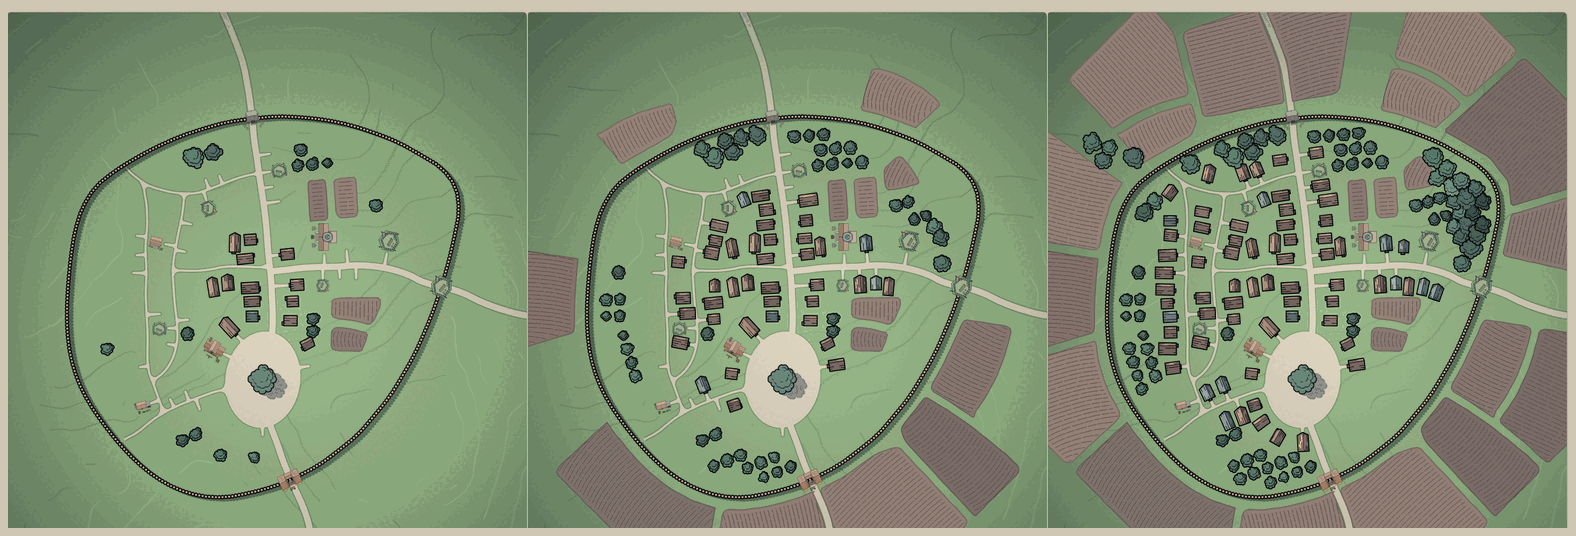
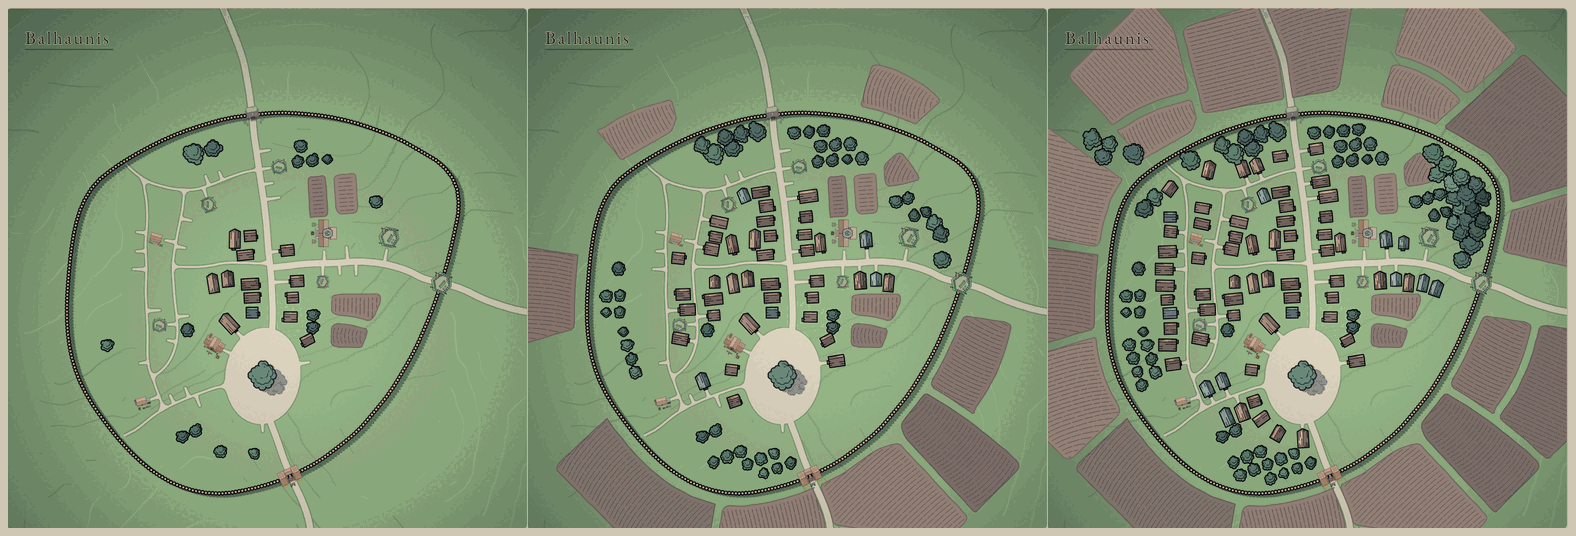
feat(village): strip the demo to the map and name it
The page carried a masthead and a long footer explaining how the map
works. None of it was doing anything: someone who opens a map demo wants
the map, and the explanation belongs in the repository, where it now
lives in `demo/README.md` and in the modules' own headers. Both are gone,
along with the orphaned `.aside` and `footer code` rules. The masthead,
crumb, footer and stages styles stay — the planner page still uses them.

The one thing the page gained is a name. It is a `<text>` node inside the
SVG rather than an HTML overlay, so it scales with the map, sits over the
top-left field without covering anything, and is deaf to the pointer, so
it cannot steal a hover from whatever lies under it. The rule beneath it
is drawn to the text's measured width, so it ends with the name at any
length.

Set in EB Garamond, which the system already ships and already declares —
and which the title needed, because the previous Georgia stack resolves to
nothing on Linux and was falling back to a default serif. The halo is 6
against a 210 size: Garamond's strokes are fine enough that the 18 I
started with read as an outline around hollow letters rather than as
separation from the field.

The export has to carry the face too. An SVG rendered through an `<img>`
is its own document: the page's `@font-face` does not reach into it and a
relative font URL inside it resolves against nothing, so the exported map
was set in whatever serif the renderer defaulted to. `toPng` now embeds
[…]

diff --git a/demo/index.html b/demo/index.html
@@ -10,15 +10,13 @@
 </head>
 <body>
 
-<header class="masthead">
-  <div>
-    <h1>Balhaunis</h1>
-    <p>The village map from the <a href="https://github.com/DimitroffVodka/crows_playtest">MCDM Crows</a> Foundry VTT system. Found an institution and it appears on the plot held for it; raise Prosperity and the homes, fields and woodland fill in behind it. This page runs the system's own map code — no server, no build step, no Foundry.</p>
-  </div>
-</header>
-
 <main>
   <section class="panel" aria-label="Controls">
+
+    <div class="field">
+      <label for="village-name">Village</label>
+      <input id="village-name" type="text" autocomplete="off" spellcheck="false" maxlength="28" placeholder="Balhaunis">
+    </div>
 
     <div class="field">
       <label for="prosperity">Prosperity <span class="readout" id="prosperity-value"></span></label>
@@ -45,6 +43,11 @@
       <button id="download" type="button">Download PNG</button>
       <button id="copy-link" type="button">Copy link</button>
     </div>
+
+    <p class="colophon">
+      <a href="https://github.com/DimitroffVodka/crows_playtest">MCDM Crows for Foundry VTT</a> ·
+      <a href="planner/">procedural generator</a>
+    </p>
   </section>
 
   <section class="stage" aria-label="Map">
@@ -78,60 +81,6 @@
     </aside>
   </section>
 </main>
-
-<footer>
-  <h2>How it works</h2>
-  <p>
-    Balhaunis is authored, not generated. The roads, the ground, and the position, size and facing of
-    every plot are frozen in
-    <a href="https://github.com/DimitroffVodka/crows_playtest/blob/master/module/helpers/canonical-village-layout.mjs">canonical-village-layout.mjs</a>
-    — twelve institution slots, sixty-nine homes, twenty-two fields and seventy-seven pieces of dressing,
-    each with a source ID tracing back to the vector export they were lifted from.
-  </p>
-  <p>
-    What the system decides at play time is only how much of that is standing.
-    <a href="https://github.com/DimitroffVodka/crows_playtest/blob/master/module/helpers/village-map.mjs"><code>buildVillageProjection()</code></a>
-    takes a village record and returns the Scene's tile list: the authored art for each founded
-    institution and a held plot for each that is not, then an ordered prefix of the homes, fields and
-    dressing sized by Prosperity. Because they are prefixes rather than a random draw, losing
-    Prosperity and regaining it restores the identical village — the same houses, on the same plots.
-  </p>
-  <p>
-    In Foundry each of those entries becomes a Tile on a 6000×6000 Scene. Here each one is an
-    <code>&lt;image&gt;</code> in an SVG, placed by the same centre, size and rotation. It is the same
-    function producing both.
-  </p>
-  <h2>Levels</h2>
-  <p>
-    Raising an institution has no art of its own to switch to: the authored set is one drawing per
-    type, so a level 3 blacksmith and a level 1 blacksmith are the same picture. Size carries the
-    difference instead. The plot itself never moves, and an unfounded one never grows, so the only
-    thing that changes is how much of its ground the building takes.
-  </p>
-  <p>
-    Growth is a fraction of each institution's <em>own</em> ladder rather than a table of per-level
-    sizes, because the twelve do not share one: the General Store tops out at 3, the Bookseller and
-    Temple at 6. Every institution starts at its authored footprint and every one ends 25% larger,
-    whatever it took to get there — so a longer ladder is simply climbed in smaller steps, and no
-    upgrade is ever invisible.
-  </p>
-  <p>
-    It also fixes a legibility problem the levels are incidental to. The export sized every building
-    to its footprint, and a blacksmith's plot is 229 units against a 295-wide house — so the
-    buildings a player actually needs to find were smaller than the houses either side of them.
-  </p>
-  <p>
-    The prices, the per-level effects and the Prosperity 10 capstones in each panel are not written
-    here: they are read from
-    <a href="https://github.com/DimitroffVodka/crows_playtest/blob/master/module/helpers/village.mjs"><code>INSTITUTIONS</code></a>,
-    the same table the system charges against, each row carrying its own rulebook citation.
-  </p>
-  <p class="aside">
-    Looking for the procedural side? An earlier layout engine that generates a village from a seed —
-    boundary, streets, plots, and institutions scored onto the ground they want — is still in the
-    repository and still has <a href="planner/">a demo of its own</a>.
-  </p>
-</footer>
 
 <script type="module" src="main.mjs"></script>
 </body>

diff --git a/demo/styles.css b/demo/styles.css
@@ -1,3 +1,14 @@
+/* The system's own display serif, for the name written across the map. Declared
+   here rather than pulled from `css/crows.css`, which is a Foundry stylesheet
+   full of sheet layout this page has no use for. */
+@font-face {
+  font-family: "EB Garamond";
+  font-style: normal;
+  font-weight: 400 700;
+  font-display: swap;
+  src: url("../fonts/eb-garamond.woff2") format("woff2");
+}
+
 /* Palette lifted from the map's own `crows` style, so the page and the thing it
    shows are the same set of colours. */
 :root {
@@ -56,6 +67,7 @@ a { color: var(--ember); }
 main {
   max-width: 1360px;
   margin: 0 auto;
+  /* The map page has no masthead, so the top padding is the whole top margin. */
   padding: 24px;
   display: grid;
   grid-template-columns: 320px minmax(0, 1fr);
@@ -606,20 +618,14 @@ footer p { max-width: 74ch; }
 
 .stages li { margin-bottom: 5px; }
 
-.aside {
-  margin-top: 20px;
-  padding-top: 14px;
+/* The map page carries no page furniture — the only pointer off it is one
+   line at the foot of the control panel. */
+.colophon {
+  margin: 16px 0 0;
+  padding-top: 12px;
   border-top: 1px solid var(--edge);
-  font-size: 14px;
-  color: #7d6f5e;
-}
-
-footer code {
-  font-size: 13px;
-  background: var(--paper);
-  border: 1px solid var(--edge);
-  border-radius: 4px;
-  padding: 1px 5px;
+  font-size: 12px;
+  color: #8b7d6a;
 }
 
 @media (max-width: 900px) {

diff --git a/demo/README.md b/demo/README.md
@@ -50,9 +50,16 @@ citation. [`rules.mjs`](rules.mjs) only turns a row into a sentence, and does it
 per `availability.axis` rather than per institution so twelve hand-written
 descriptions cannot drift from the numbers.
 
-Prosperity, the founded institutions and their levels, and the open panel all
-live in the URL hash, so a link opens on the same village with the same building
-showing.
+The village's name is written across the top-left of the map in the system's own
+display serif, EB Garamond. It is a `<text>` node inside the SVG rather than an
+HTML overlay, so it scales with the map and travels into the PNG export — which
+means the export has to carry the face too: an SVG rendered through an `<img>`
+is its own document, and neither the page's `@font-face` nor a relative font URL
+reaches inside it, so `toPng` embeds the woff2 as a data URI.
+
+The page itself carries no prose. Name, Prosperity, the founded institutions and
+their levels, and the open panel all live in the URL hash, so a link opens on the
+same village with the same building showing.
 
 ## `planner/` — the procedural layout engine
 
